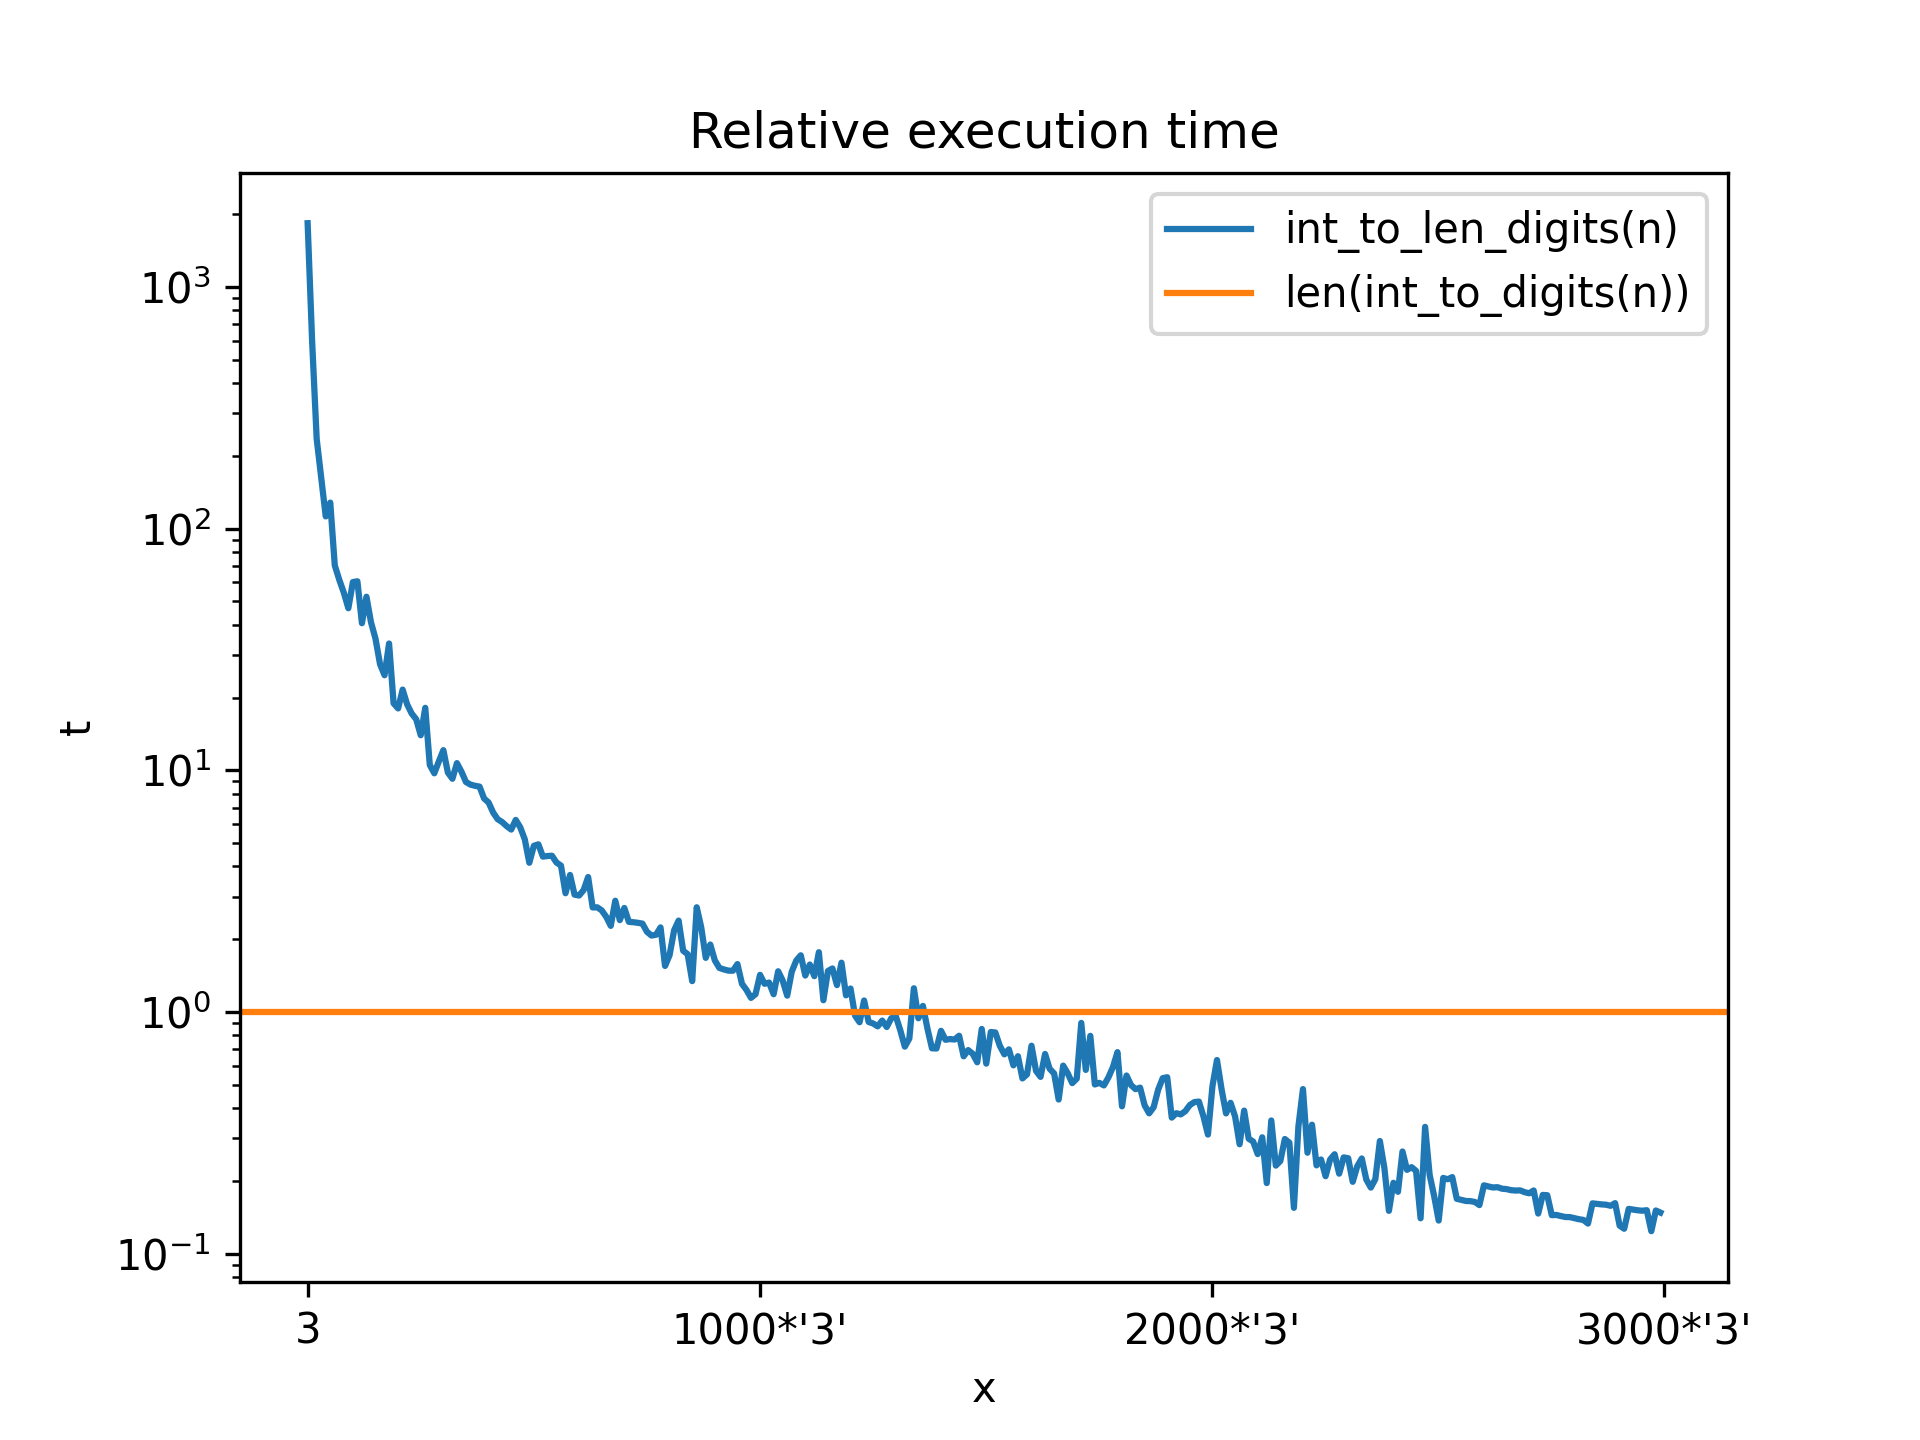
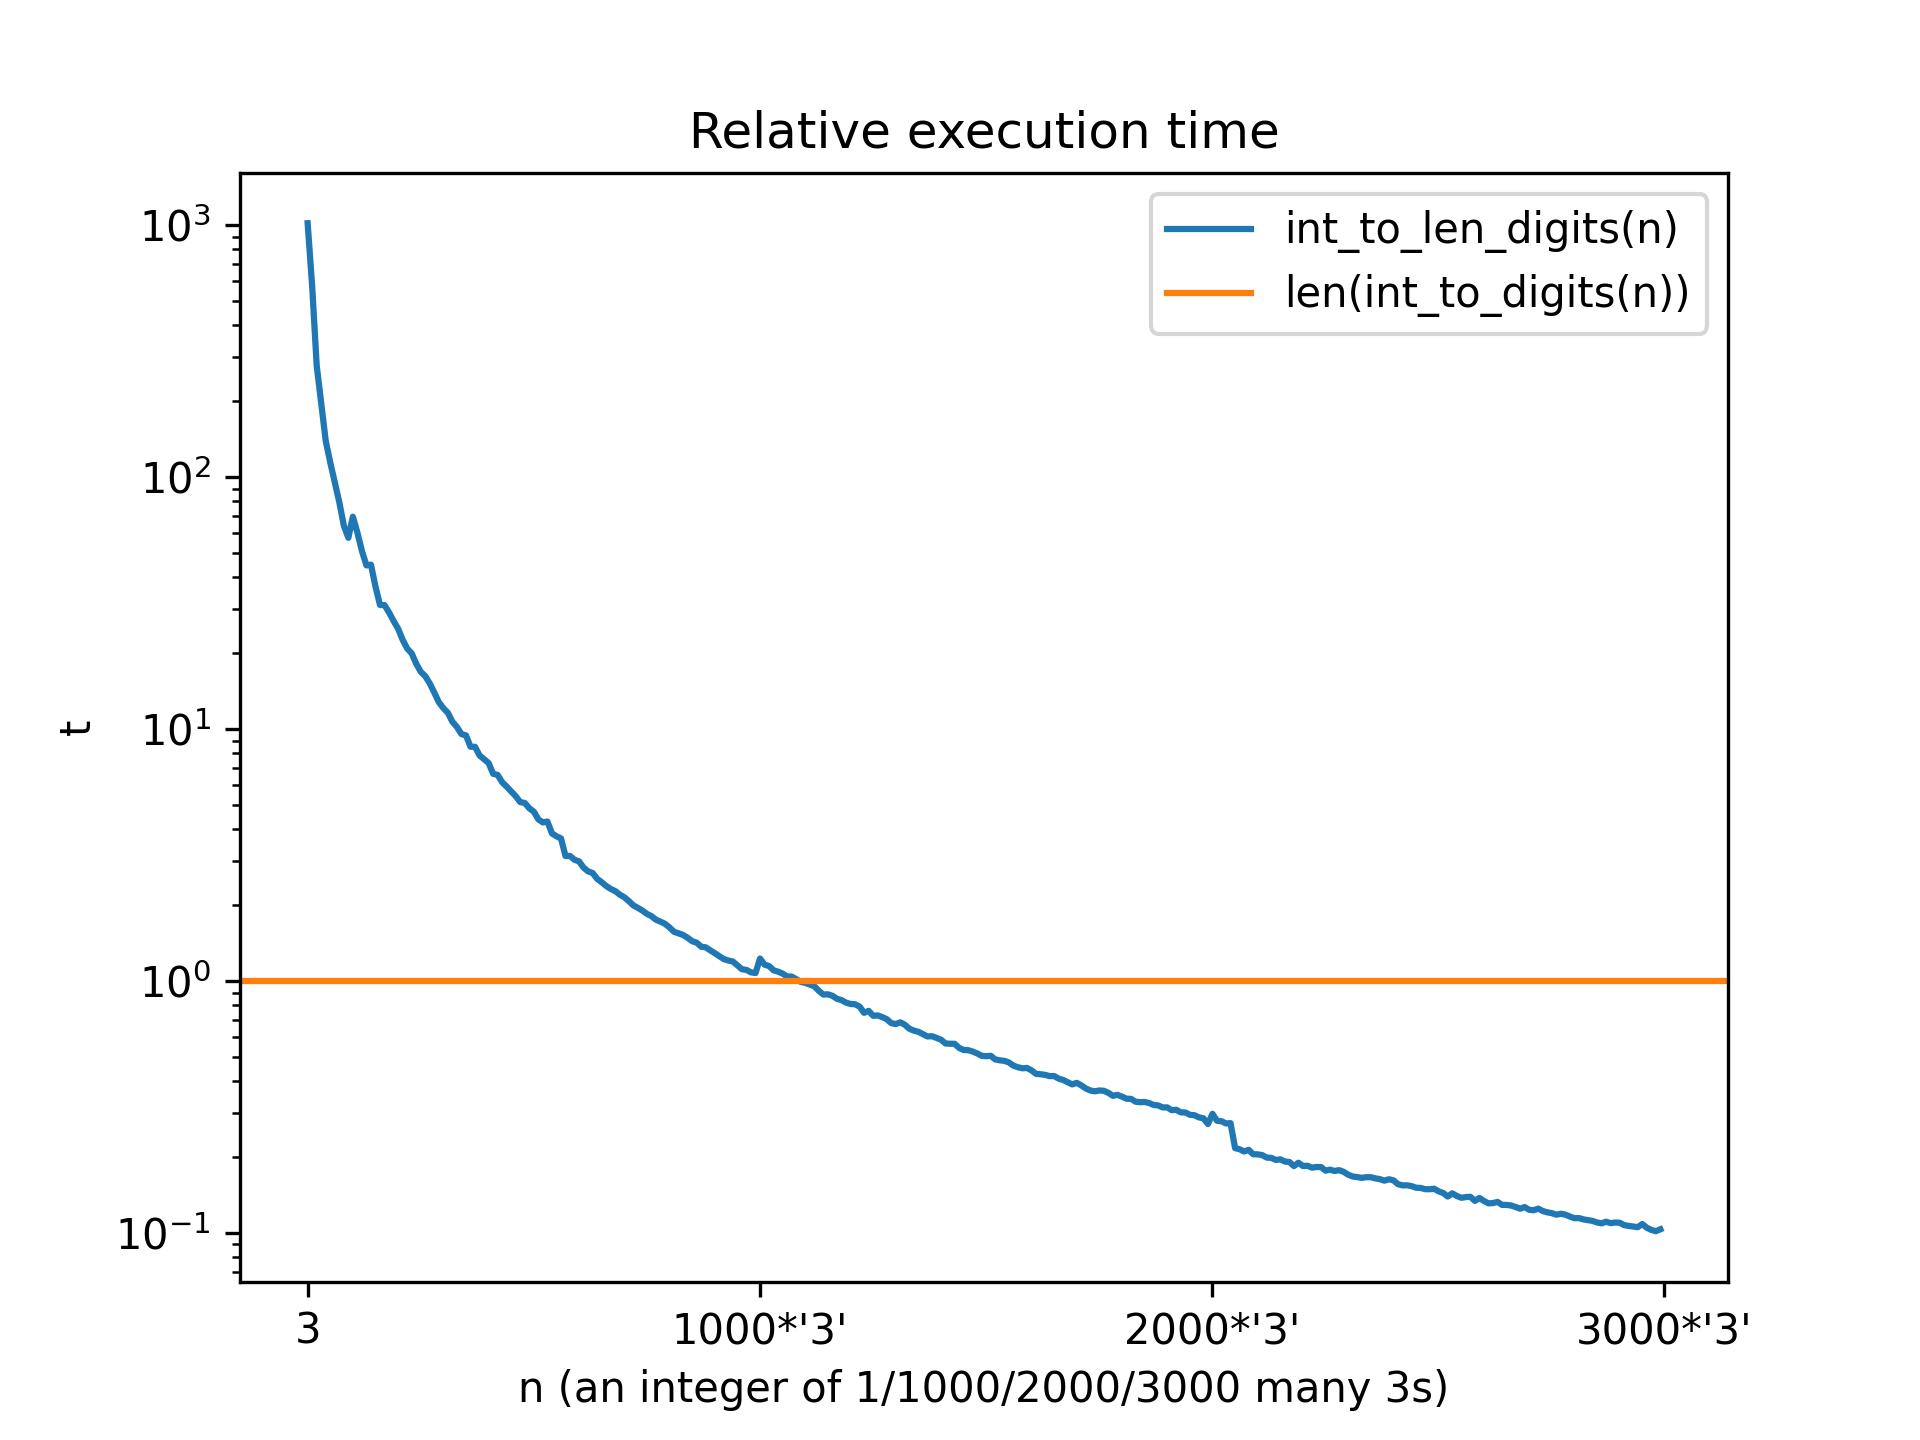
squash

diff --git a/readme_nudes/int_to_len_digits_runtime.py b/readme_nudes/int_to_len_digits_runtime.py
@@ -1,21 +1,21 @@
-import timeit
+from timeit import timeit
 import matplotlib.pyplot as plt
 
 
 
-N = 1000
+N = 10
 ls, ts = list(range(1, 3000, 10)), []
 for l in ls:
     s = l*'3'
-    ts += [timeit.timeit('int_to_len_digits('+s+')',
+    ts += [timeit('int_to_len_digits('+s+')',
                 setup='from rdx import int_to_len_digits', number=N) /
-            timeit.timeit('len(int_to_digits('+s+'))',
+            timeit('len(int_to_digits('+s+'))',
                     setup='from rdx import int_to_digits', number=N)]
 plt.plot(ls, ts, color='C0', label='int_to_len_digits(n)')
 plt.axhline(1, color='C1', label='len(int_to_digits(n))')
 
 plt.title('Relative execution time')
-plt.xlabel('x')
+plt.xlabel('n (an integer of 1/1000/2000/3000 many 3s)')
 plt.xticks((1, 1000, 2000, 3000), ('3', "1000*'3'", "2000*'3'", "3000*'3'"))
 plt.ylabel('t')
 plt.yscale('log')

diff --git a/README.md b/README.md
@@ -90,6 +90,9 @@ using floating point arithmetic
 [`sympy.log`](https://docs.sympy.org/latest/modules/functions/elementary.html#sympy.functions.elementary.exponential.log)
 is used, adding a hefty overhead. A comparison for time critical applications:
 ![png](https://raw.githubusercontent.com/goessl/rdx/main/readme_nudes/int_to_len_digits_runtime.png)
+(integers with just 3s were choosen because random values introduce to much
+noise and because 100... seemed to risky for a systematic error and 33... lies
+exactly between those 100...s on a logarithmic scale)
 
 ## TODO
 
